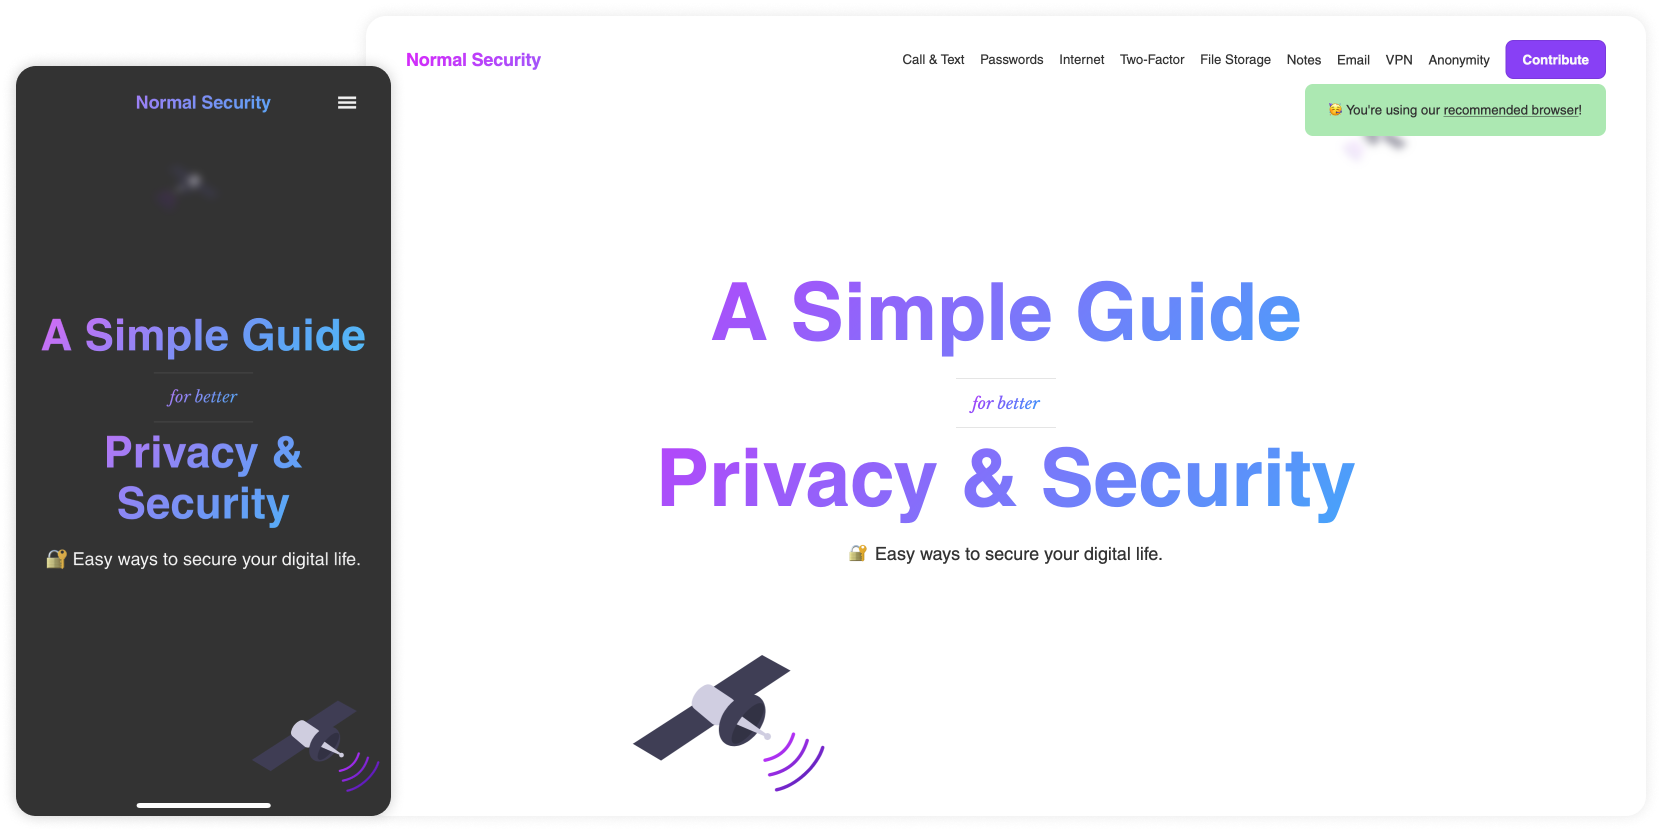
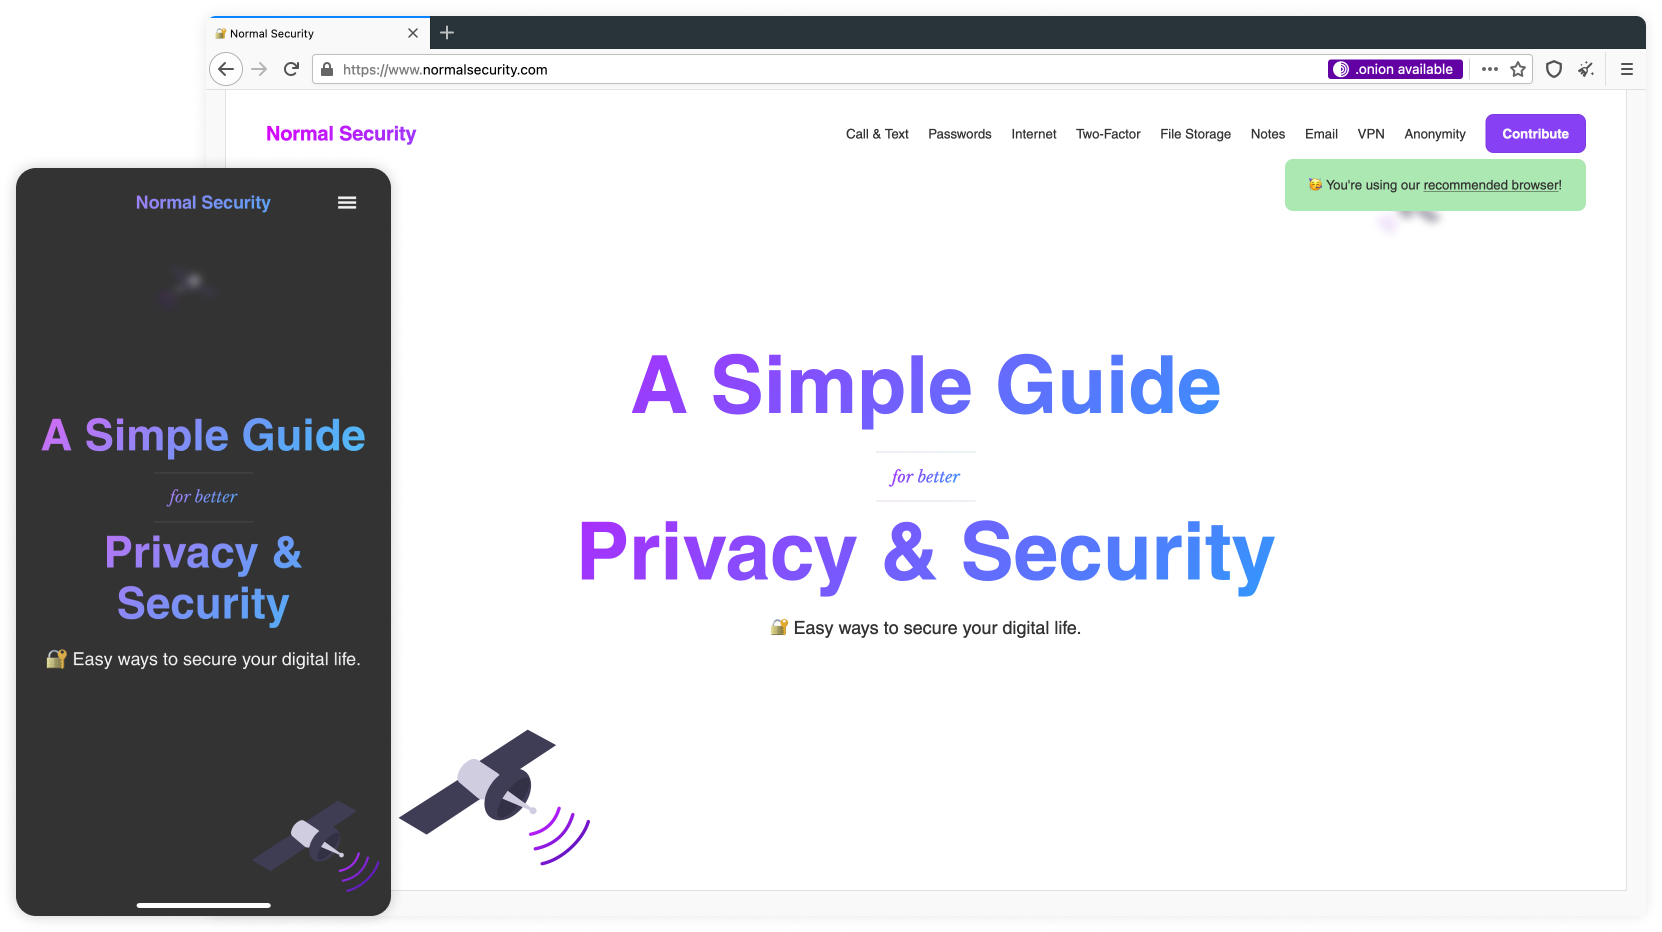
design system update

diff --git a/design-system/css/typography.css b/design-system/css/typography.css
@@ -1,29 +1,3 @@
-@font-face {
-  font-family: "Sans Regular";
-  src: url("../fonts/sans/roman.woff2") format("woff2"), url("../fonts/sans/roman.woff") format("woff");
-}
-
-@font-face {
-  font-family: "Sans Bold";
-  src: url("../fonts/sans/bold.woff2") format("woff2"), url("../fonts/sans/bold.woff") format("woff");
-}
-
-@font-face {
-  font-family: "Serif Regular";
-  src: url("../fonts/serif/regular.woff2") format("woff2"), url("../fonts/serif/regular.woff") format("woff");
-}
-
-@font-face {
-  font-family: "Serif Bold";
-  src: url("../fonts/serif/bold.woff2") format("woff2"), url("../fonts/serif/bold.woff") format("woff");
-}
-
-@font-face {
-  font-family: "Serif Italic";
-  src: url("../fonts/serif/italic.woff2") format("woff2"), url("../fonts/serif/italic.woff") format("woff");
-}
-
-
 @media (prefers-color-scheme: light) {
   h1, h2, h3, h4, h5, h6, p {
     color: var(--font-color-dark);
@@ -46,14 +20,15 @@
   }
 }
 
-html {
-  font-family: var(--font-default);
+:root {
   font-family: var(--font-sans);
 }
 
+html {
+}
+
 h1, h2, h3, h4, h5, h6 {
-  font-family: Helvetica, Arial, sans-serif;
-  font-family: var(--font-sans-bold);
+  font-weight: bold;
 }
 
 h1 {

diff --git a/design-system/components/intro/css/article-intro.css b/design-system/components/intro/css/article-intro.css
@@ -28,7 +28,8 @@
 
 .articleIntro h1 {
   padding: var(--spacing-large) var(--spacing-xlarge);
-  font-family: var(--font-serif-bold);
+  font-weight: bold;
+  font-family: var(--font-serif);
   margin-bottom: var(--spacing-small);
   border-radius: 0 var(--radius-base) var(--radius-base) 0;
   -webkit-background-clip: initial !important;
@@ -42,7 +43,7 @@
 }
 
 .authorName {
-  font-family: var(--font-sans-bold);
+  font-weight: bold;
 }
 
 .articleIntro p:last-of-type {

diff --git a/design-system/components/article/css/article.css b/design-system/components/article/css/article.css
@@ -9,12 +9,12 @@ article h3 {
 }
 
 article h4 {
-  font-family: var(--font-serif-bold);
+  font-family: var(--font-serif);
   margin-bottom: var(--spacing-large) !important;
 }
 
 .authorName {
-  font-family: var(--font-sans-bold);
+  font-weight: bold;
 }
 
 article {
@@ -32,7 +32,7 @@ article .featureImage:nth-child(even) {
 }
 
 article a.location {
-  font-family: var(--font-sans-bold);
+  font-weight: bold;
 }
 
 article p {

diff --git a/design-system/css/variables.css b/design-system/css/variables.css
@@ -1,11 +1,7 @@
 :root {
   /* TYPOGRAPHY */
-  --font-default: Helvetica, Arial, sans-serif;
-  --font-sans: "Sans Regular";
-  --font-sans-bold: "Sans Bold";
-  --font-serif: "Serif Regular";
-  --font-serif-italic: "Serif Italic";
-  --font-serif-bold: "Serif Bold";
+  --font-sans: Helvetica, Arial, sans-serif;
+  --font-serif: Georgia, Times, serif;
 
   --font-size-logo: 1.25rem;
   --font-size-body: 1rem;

diff --git a/design-system/components/chat/css/chat.css b/design-system/components/chat/css/chat.css
@@ -134,7 +134,7 @@
 
 .cardMeta p:first-of-type {
   margin-bottom: calc(var(--spacing-xsmall) / 2);
-  font-family: var(--font-sans-bold);
+  font-weight: bold;
 }
 
 .simpleUserList .card:first-of-type {
@@ -188,7 +188,7 @@
 
 .chatHeader p {
   font-size: var(--font-size-small);
-  font-family: var(--font-sans-bold);
+  font-weight: bold;
   margin: 0 auto;
 }
 

diff --git a/design-system/components/buttons/css/links-buttons.css b/design-system/components/buttons/css/links-buttons.css
@@ -55,10 +55,10 @@
 }
 
 .btn {
-  padding: var(--spacing-small) var(--spacing-base);
+  padding: calc(var(--spacing-small) + 2px) var(--spacing-base) var(--spacing-small) var(--spacing-base);
   border-radius: var(--radius-soft);
   font-size: var(--font-size-small);
-  font-family: var(--font-sans-bold);
+  font-weight: bold;
   display: inline-block;
 }
 

diff --git a/design-system/components/table/css/table.css b/design-system/components/table/css/table.css
@@ -142,7 +142,7 @@ tr {
 }
 
 th {
-  font-family: var(--font-sans-bold);
+  font-weight: bold;
   position: -webkit-sticky;
   position: sticky;
   top: 0;
@@ -211,7 +211,7 @@ th, td {
   }
 
   td:first-of-type {
-    font-family: var(--font-sans-bold);
+    font-weight: bold;
     font-size: calc(var(--font-size-body)*.9)!important;
     opacity: 1;
   }

diff --git a/design-system/components/inputs/css/inputs.css b/design-system/components/inputs/css/inputs.css
@@ -45,6 +45,13 @@
   width: 100%;
 }
 
+legend {
+  font-family: Helvetica, Arial, sans-serif;
+  font-weight: bold;
+  margin:0 0 var(--spacing-small) 0;
+  font-size: var(--font-size-small);
+}
+
 label + input[type="text"]{
   display: block;
   margin-top: var(--spacing-xsmall);

diff --git a/design-system/components/hint/css/hint.css b/design-system/components/hint/css/hint.css
@@ -13,7 +13,7 @@ p.hint {
   transform: translate(-50%, -50%);
   left: 50%;
   font-size: var(--font-size-xsmall) !important;
-  font-family: var(--font-sans-bold);
+  font-weight: bold;
   opacity: .5;
   animation: floating 3s ease infinite;
   max-width: max-content !important;

diff --git a/design-system/components/badge/css/badge.css b/design-system/components/badge/css/badge.css
@@ -25,7 +25,7 @@ p.badge {
   font-size: var(--font-size-xxsmall) !important;
   display: inline-block;
   margin: 0 !important;
-  font-family: var(--font-sans-bold);
+  font-weight: bold;
   padding: var(--spacing-xxsmall) var(--spacing-small);
   width: auto !important;
 }

diff --git a/design-system/components/filters/css/filters.css b/design-system/components/filters/css/filters.css
@@ -36,12 +36,6 @@ fieldset {
   margin-bottom: var(--spacing-medium);
 }
 
-legend {
-  font-family: var(--font-sans-bold);
-  margin:0 0 var(--spacing-small) 0;
-  font-size: var(--font-size-small);
-}
-
 #filters input {
   margin-bottom: var(--spacing-xsmall);
 }

diff --git a/design-system/css/firefox.css b/design-system/css/firefox.css
@@ -1,3 +1,6 @@
+/* Firefox and Tor Browser Optimizations */
+/* For Tor Browser, use .png images instead of .svg */
+
 @media (prefers-color-scheme: light) {
   @-moz-document url-prefix() {
     header, footer, nav.staged {
